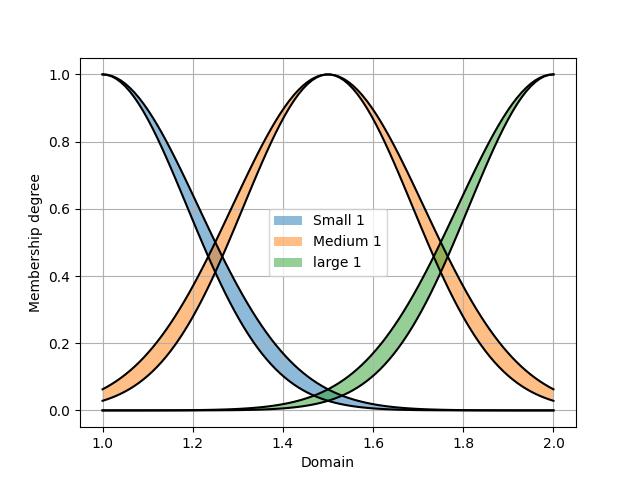
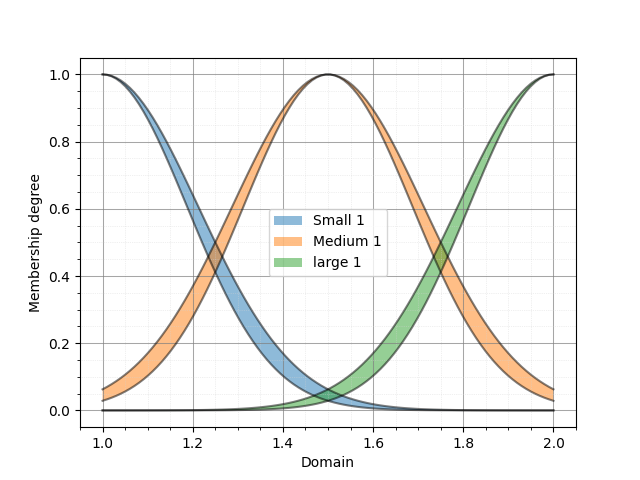
Some scattered updates ...

diff --git a/pyit2fls/pyit2fls.py b/pyit2fls/pyit2fls.py
@@ -786,8 +786,10 @@ class T1FS:
         else:
             raise ValueError("The method" + method + " is not implemented yet!")
 
-    def plot(self, title=None, legend_text=None, filename=None, 
-             ext="pdf", grid=True, xlabel="Domain", ylabel="Membership degree"):
+    def plot(self, title=None, legends=None, filename=None, 
+             ext="pdf", grid=True, xlabel="Domain", 
+             ylabel="Membership degree", legendloc="best", 
+               bbox_to_anchor=None, alpha=0.5, ):
         """
         Plots the T1FS.
         
@@ -830,15 +832,24 @@ class T1FS:
         >>> mySet.plot(filename="mySet")
         """
         plt.figure()
-        plt.plot(self.domain, self.mf(self.domain, self.params))
-        if legend_text is not None:
-            plt.legend([legend_text])
+        plt.plot(self.domain, self.mf(self.domain, self.params), alpha=alpha)
+        if legends is not None:
+            if bbox_to_anchor is None:
+                plt.legend(legends, loc=legendloc)
+            else:
+                plt.legend(legends, loc=legendloc, bbox_to_anchor=bbox_to_anchor)
+    
         if title is not None:
             plt.title(title)
         plt.xlabel(xlabel)
         plt.ylabel(ylabel)
         plt.ylim((-0.05, 1.05))
-        plt.grid(grid)
+        
+        if grid == True:
+            plt.grid(which="major", linestyle="-", linewidth=0.75, color="gray", alpha=0.7)
+            plt.minorticks_on() 
+            plt.grid(which="minor", linestyle=":", linewidth=0.5, color="lightgray", alpha=0.7)
+
         if filename is not None:
             plt.savefig(filename + "." + ext, format=ext, dpi=300, bbox_inches="tight")
         plt.show()
@@ -871,7 +882,9 @@ def T1_Emphasize(t1fs, m=2.):
 
 
 def T1FS_plot(*sets, title=None, legends=None, filename=None, 
-              ext="pdf", grid=True, xlabel="Domain", ylabel="Membership degree"):
+              ext="pdf", grid=True, xlabel="Domain", 
+              ylabel="Membership degree", legendloc="best", 
+               bbox_to_anchor=None, alpha=0.5, ):
     """
     Plots multiple T1FSs together in the same figure.
     
@@ -920,15 +933,25 @@ def T1FS_plot(*sets, title=None, legends=None, filename=None,
     """
     plt.figure()
     for t1fs in sets:
-        plt.plot(t1fs.domain, t1fs.mf(t1fs.domain, t1fs.params))
+        plt.plot(t1fs.domain, t1fs.mf(t1fs.domain, t1fs.params), alpha=alpha)
+    
     if legends is not None:
-        plt.legend(legends)
+        if bbox_to_anchor is None:
+            plt.legend(legends, loc=legendloc)
+        else:
+            plt.legend(legends, loc=legendloc, bbox_to_anchor=bbox_to_anchor)
+    
     if title is not None:
         plt.title(title)
     plt.xlabel(xlabel)
     plt.ylabel(ylabel)
     plt.ylim((-0.05, 1.05))
-    plt.grid(grid)
+
+    if grid == True:
+        plt.grid(which="major", linestyle="-", linewidth=0.75, color="gray", alpha=0.7)
+        plt.minorticks_on() 
+        plt.grid(which="minor", linestyle=":", linewidth=0.5, color="lightgray", alpha=0.7)
+
     if filename is not None:
         plt.savefig(filename + "." + ext, format=ext, dpi=300, bbox_inches="tight")
     plt.show()
@@ -1539,8 +1562,10 @@ class IT2FS:
         """
         return IT2FS(self.domain, umf=self.umf, umf_params=self.umf_params, lmf=self.lmf, lmf_params=self.lmf_params)
 
-    def plot(self, title=None, legend_text=None, filename=None, 
-             ext="pdf", grid=True, xlabel="Domain", ylabel="Membership degree"):
+    def plot(self, title=None, legends=None, filename=None, 
+             ext="pdf", grid=True, xlabel="Domain", 
+             ylabel="Membership degree", legendloc="best", 
+             bbox_to_anchor=None, alpha=0.5, ):
         """
         Plots the IT2FS.
         
@@ -1586,14 +1611,22 @@ class IT2FS:
         >>> mySet.plot(filename="mySet")
         """
         plt.figure()
-        plt.fill_between(self.domain, self.upper, self.lower)
-        if legend_text is not None:
-            plt.legend([legend_text])
+        plt.fill_between(self.domain, self.upper, self.lower, alpha=alpha)
+        if legends is not None:
+            if bbox_to_anchor is None:
+                plt.legend(legends, loc=legendloc)
+            else:
+                plt.legend(legends, loc=legendloc, bbox_to_anchor=bbox_to_anchor)
+
         if title is not None:
             plt.title(title)
-        plt.plot(self.domain, self.upper, color="black")
-        plt.plot(self.domain, self.lower, color="black")
-        plt.grid(grid)
+        plt.plot(self.domain, self.upper, color="black", alpha=alpha)
+        plt.plot(self.domain, self.lower, color="black", alpha=alpha)
+        if grid == True:
+            plt.grid(which="major", linestyle="-", linewidth=0.75, color="gray", alpha=0.7)
+            plt.minorticks_on() 
+            plt.grid(which="minor", linestyle=":", linewidth=0.5, color="lightgray", alpha=0.7)
+    
         plt.xlabel(xlabel)
         plt.ylabel(ylabel)
         plt.ylim((-0.05, 1.05))
@@ -1867,7 +1900,9 @@ L_IT2FS_Gaussian_UncertStd = IT2FS_LGaussian_UncertStd
 
 
 def IT2FS_plot(*sets, title=None, legends=None, filename=None, 
-               ext="pdf", grid=True, xlabel="Domain", ylabel="Membership degree"):
+               ext="pdf", grid=True, xlabel="Domain", 
+               ylabel="Membership degree", legendloc="best", 
+               bbox_to_anchor=None, alpha=0.5, ):
     """
     Plots multiple IT2FSs together in the same figure.
     
@@ -1917,18 +1952,26 @@ def IT2FS_plot(*sets, title=None, legends=None, filename=None,
     """
     plt.figure()
     for it2fs in sets:
-        plt.fill_between(it2fs.domain, it2fs.upper, it2fs.lower, alpha=0.5)
+        plt.fill_between(it2fs.domain, it2fs.upper, it2fs.lower, alpha=alpha)
     if legends is not None:
-        plt.legend(legends)
+        if bbox_to_anchor is None:
+            plt.legend(legends, loc=legendloc)
+        else:
+            plt.legend(legends, loc=legendloc, bbox_to_anchor=bbox_to_anchor)
+
     for it2fs in sets:
-        plt.plot(it2fs.domain, it2fs.lower, color="black")
-        plt.plot(it2fs.domain, it2fs.upper, color="black")
+        plt.plot(it2fs.domain, it2fs.lower, color="black", alpha=alpha)
+        plt.plot(it2fs.domain, it2fs.upper, color="black", alpha=alpha)
     if title is not None:
         plt.title(title)
     plt.xlabel(xlabel)
     plt.ylabel(ylabel)
     plt.ylim((-0.05, 1.05))
-    plt.grid(grid)
+    if grid == True:
+        plt.grid(which="major", linestyle="-", linewidth=0.75, color="gray", alpha=0.7)
+        plt.minorticks_on() 
+        plt.grid(which="minor", linestyle=":", linewidth=0.5, color="lightgray", alpha=0.7)
+    
     if filename is not None:
         plt.savefig(filename + "." + ext, format=ext, dpi=300, bbox_inches="tight")
     plt.show()

diff --git a/examples/Sphinx docs examples/Ex4.py b/examples/Sphinx docs examples/Ex4.py
@@ -43,7 +43,9 @@ IT2FS_plot(Const, Tri, RTri, LTri, Trapezoid, Gaussian,
                       "G. with Uncertain Mean", 
                       "G. with Uncertain Std", 
                       "Right G. with Uncertain Std", 
-                      "Left G. with Uncertain Std", ])
+                      "Left G. with Uncertain Std", ], 
+           legendloc="upper right", bbox_to_anchor=(1.55, 1), 
+           filename="Figure_9", ext="png")
 
 
 

diff --git a/docs/_generated/pyit2fls.rst b/docs/_generated/pyit2fls.rst
@@ -467,18 +467,20 @@ Finally, let's plot all of these sets using the *IT2FS_plot* function:
 .. code-block:: python
 
     IT2FS_plot(Const, Tri, RTri, LTri, Trapezoid, Gaussian,
-            Gaussian_UncertMean, Gaussian_UncertStd, 
-            RGaussian_UncertStd, LGaussian_UncertStd, 
-            legends = ["Const Set", 
-                        "Triangular Set", 
-                        "Right Triangular Set", 
-                        "Left Triangular Set", 
-                        "Trapezoid", 
-                        "Gaussian", 
-                        "G. with Uncertain Mean", 
-                        "G. with Uncertain Std", 
-                        "Right G. with Uncertain Std", 
-                        "Left G. with Uncertain Std", ])
+               Gaussian_UncertMean, Gaussian_UncertStd, 
+               RGaussian_UncertStd, LGaussian_UncertStd, 
+               legends = ["Const Set", 
+                          "Triangular Set", 
+                          "Right Triangular Set", 
+                          "Left Triangular Set", 
+                          "Trapezoid", 
+                          "Gaussian", 
+                          "G. with Uncertain Mean", 
+                          "G. with Uncertain Std", 
+                          "Right G. with Uncertain Std", 
+                          "Left G. with Uncertain Std", ], 
+               legendloc="upper right", bbox_to_anchor=(1.55, 1), 
+               filename="Figure_9", ext="png"))
 
 The output of this code is shown below:
 
